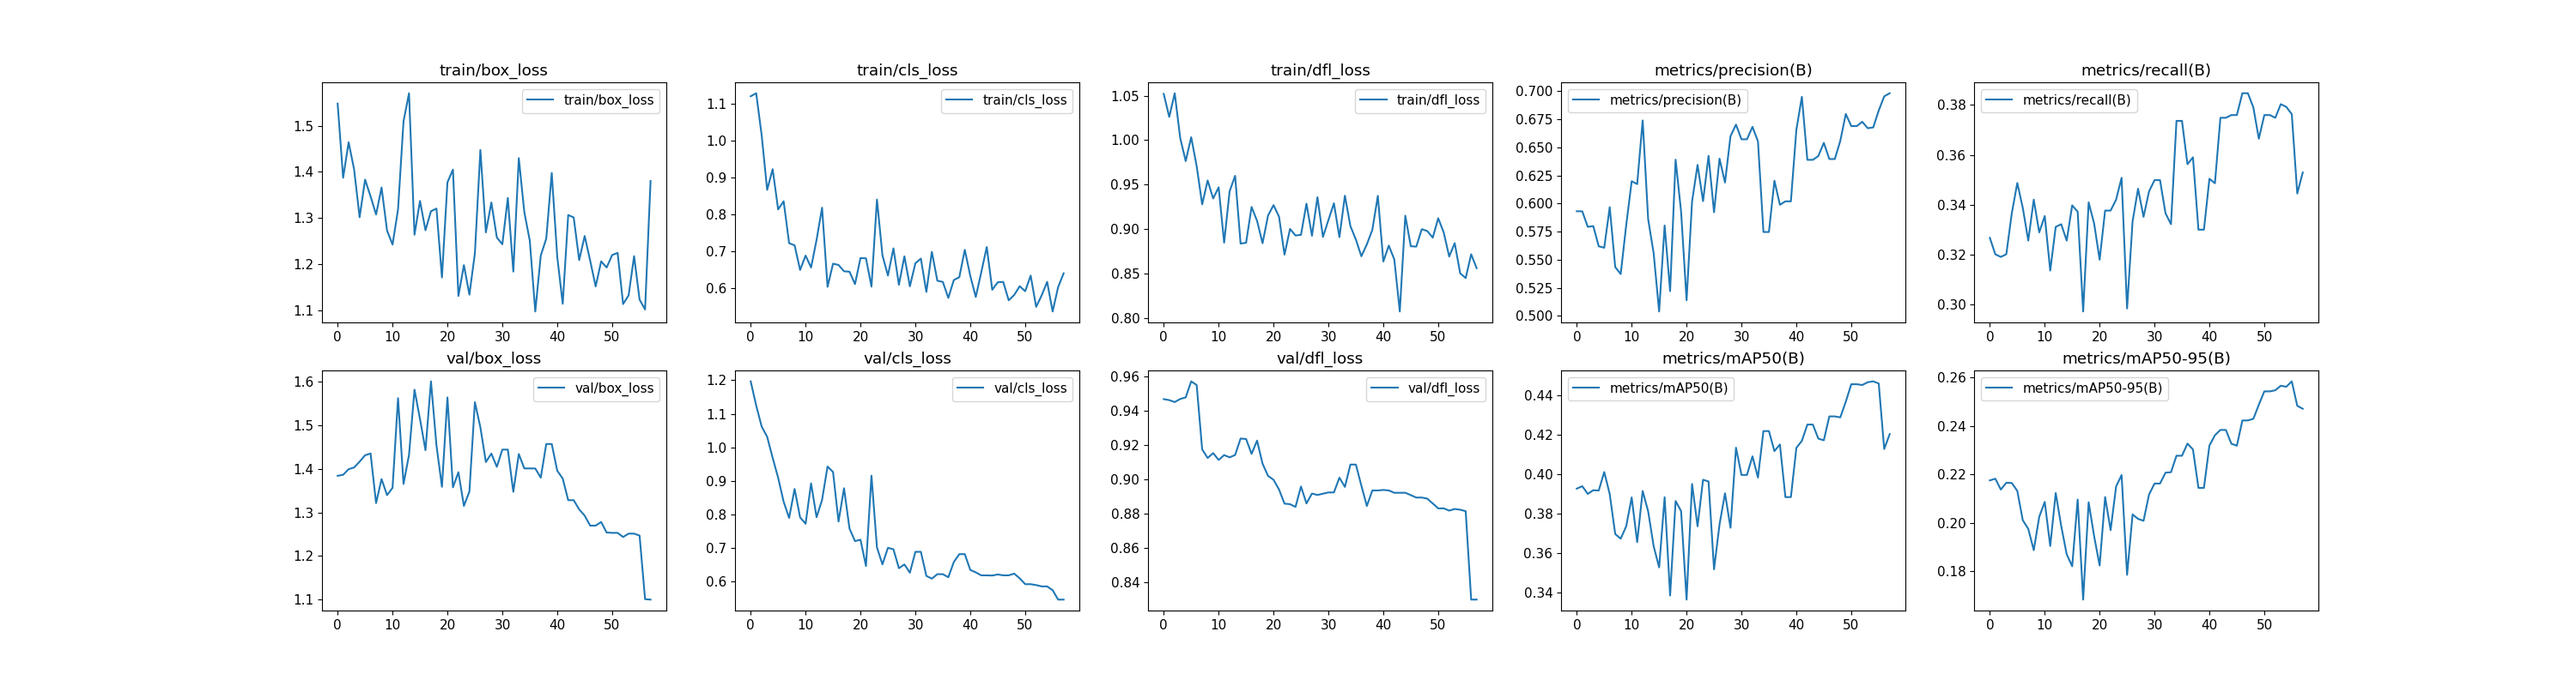
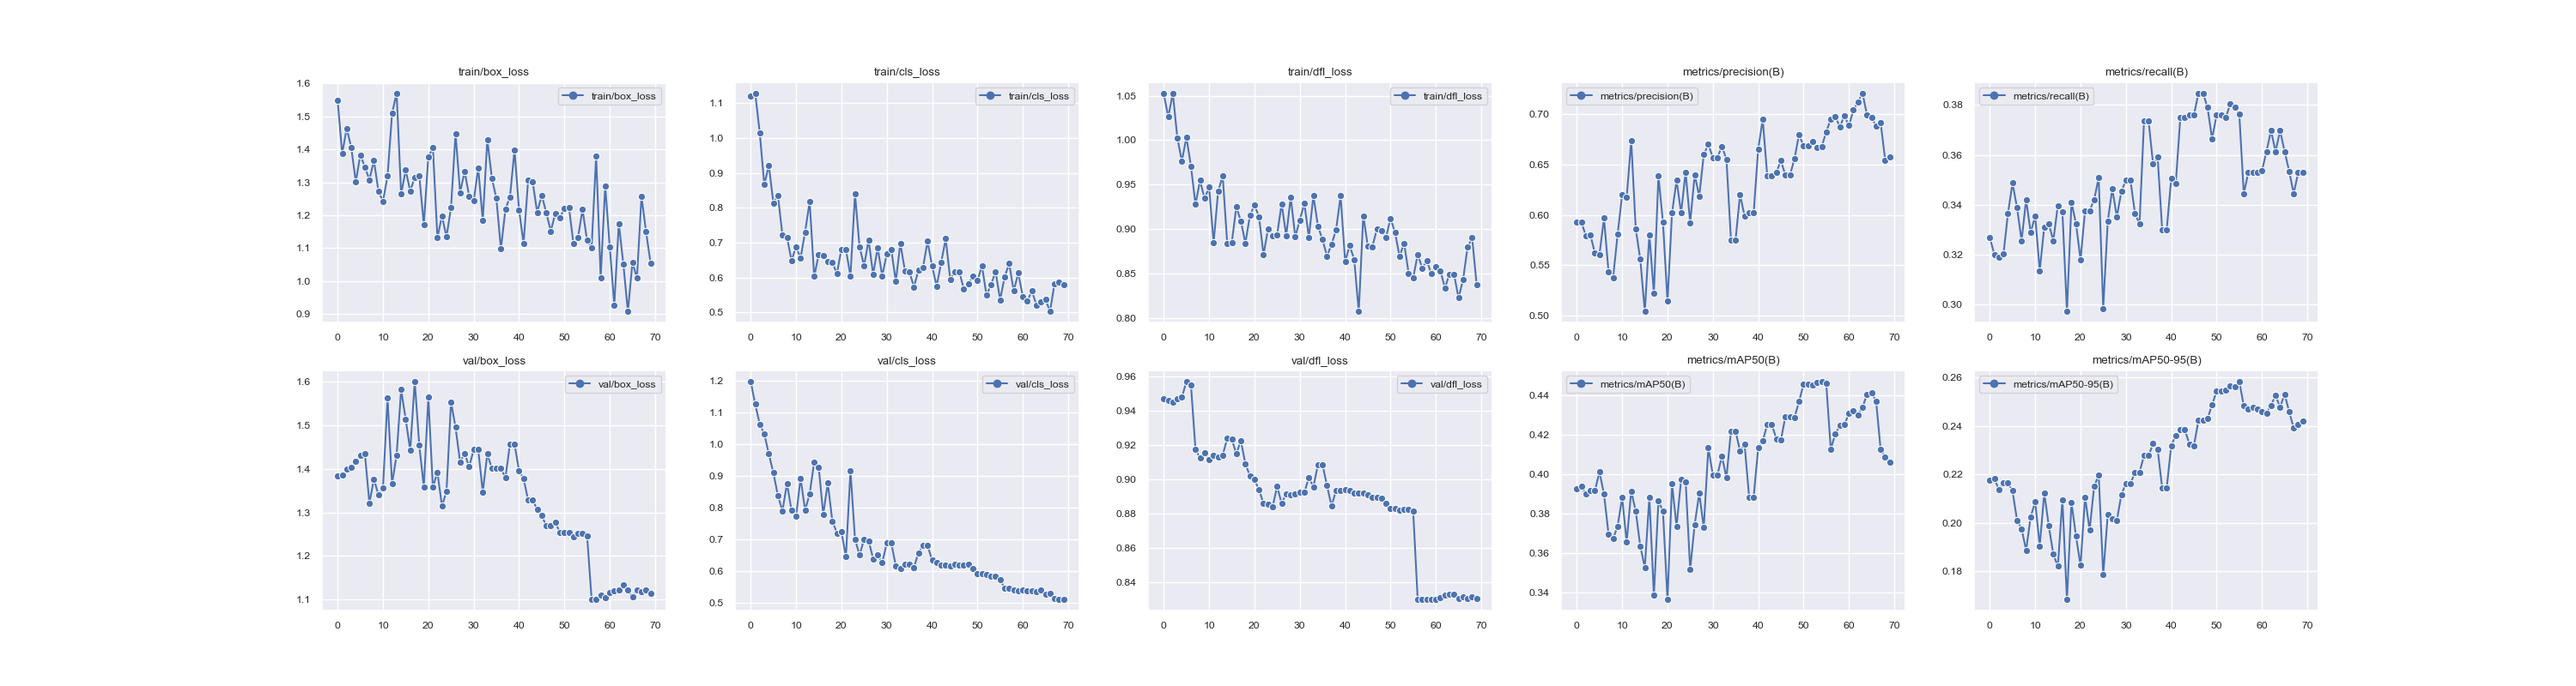
.

diff --git a/data/img_class_ground_truth/img_class_ground_truth.py b/data/img_class_ground_truth/img_class_ground_truth.py
@@ -1,7 +1,9 @@
 import fiftyone as fo
 import numpy as np
+import seaborn as sns
 from collections import defaultdict
 import pandas as pd
+from matplotlib import pyplot as plt
 from pandas import IndexSlice
 
 from models.utils.Consts import MODEL_LIST
@@ -27,9 +29,8 @@ def generate_img_clf_gt(metrics_dic, model_name):
                 ap = results.mAP()
                 [acc, pre, rec, f1, sup] = results.metrics().values()
             df.loc[:, model_name] = [acc, pre, rec, f1, sup, ap]
-    except:
-        return
-    pass
+    except Exception:
+        raise
 
 
 def new_metric_frame():
@@ -43,7 +44,7 @@ dict_metrics = defaultdict(lambda: new_metric_frame())
 for model_id in range(len(MODEL_LIST)):
     generate_img_clf_gt(dict_metrics, MODEL_LIST[model_id])
 
-path = './data/img_class_ground_truth/'
+path = './'
 tmp = pd.DataFrame(index=pd.MultiIndex(levels=[[], []], codes=[[], []], names=[u'file', u'metric']),
                    columns=MODEL_LIST, dtype=float, )
 for (n, a) in dict_metrics.items():
@@ -57,3 +58,20 @@ for metric in tmp.index.get_level_values('metric').unique():
     tmp.loc[IndexSlice[:, metric], MODEL_LIST].droplevel('metric').to_csv(path + '%s.csv' % metric, float_format='%.3f')
 tmp.reset_index('metric').pivot(columns='metric', values='best_model_name') \
     .to_csv(path + 'labels.csv', float_format='%.3f')
+
+# visualization
+plot_df = pd.read_csv('./data/img_class_ground_truth/accuracy.csv')
+plot_df = plot_df.sort_values(by=list(MODEL_LIST)[::-1], ascending=False)
+plot_df = plot_df.set_index(['file'])
+plot_df = plot_df.stack()
+plot_df.index = plot_df.index.rename('model', level=1)
+plot_df.name = 'accuracy'
+plot_df = plot_df.reset_index()
+fig, ax = plt.subplots(1, 1, figsize=(12, 5))
+sns.lineplot(data=plot_df, x="file", y='accuracy', hue='model', style="model",
+             markers=False, dashes=False, lw=1, ax=ax)
+ax.set_title('Model accuracy comparison')
+ax.set_xticklabels(ax.get_xticklabels(), rotation=90)
+plt.tight_layout()
+
+plt.savefig('./data/img_class_ground_truth/img_class_ground_truth.png')

diff --git a/models/YOLOv8/YOLOv8_training.py b/models/YOLOv8/YOLOv8_training.py
@@ -42,8 +42,14 @@ def plot_metrics(dfx, column_names_to_plot, gridspec_cols=2, idx=0):
 # # train for 20min for 2 epochs. This is going to be stored in '/train33'
 # YOLO('../../runs/detect/train31/weights/last.pt').train(data='BruceBeach39.yaml', epochs=2, imgsz=640)
 
-# train for 3 epochs. This is going to be stored in '/train34'.
-YOLO('../../runs/detect/train33/weights/last.pt').train(data='BruceBeach39.yaml', epochs=3, imgsz=640)
+# # train for 3 epochs. This is going to be stored in '/train34'.
+# YOLO('../../runs/detect/train33/weights/last.pt').train(data='BruceBeach39.yaml', epochs=3, imgsz=640)
+
+# # train for 3 epochs. This is going to be stored in '/train35'.
+# YOLO('../../runs/detect/train34/weights/last.pt').train(data='BruceBeach39.yaml', epochs=3, imgsz=640)
+
+# train for 3 epochs. This is going to be stored in '/train36'.
+YOLO('../../runs/detect/train35/weights/last.pt').train(data='BruceBeach39.yaml', epochs=6, imgsz=640)
 
 # merging training results
 files = ['../../runs/detect/train28/results.csv',
@@ -51,6 +57,8 @@ files = ['../../runs/detect/train28/results.csv',
          '../../runs/detect/train31/results.csv',
          '../../runs/detect/train33/results.csv',
          '../../runs/detect/train34/results.csv',
+         '../../runs/detect/train35/results.csv',
+         '../../runs/detect/train36/results.csv',
          ]
 df = pd.concat(map(pd.read_csv, files), ignore_index=True)
 df.columns = [x.strip(' ') for x in df.columns]
